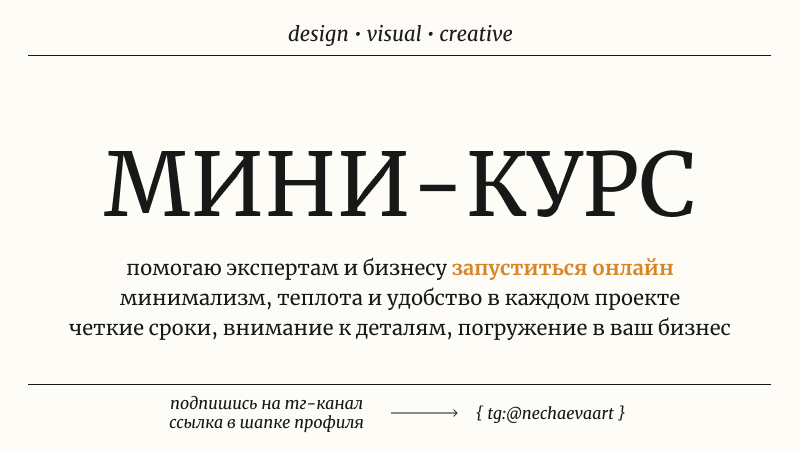
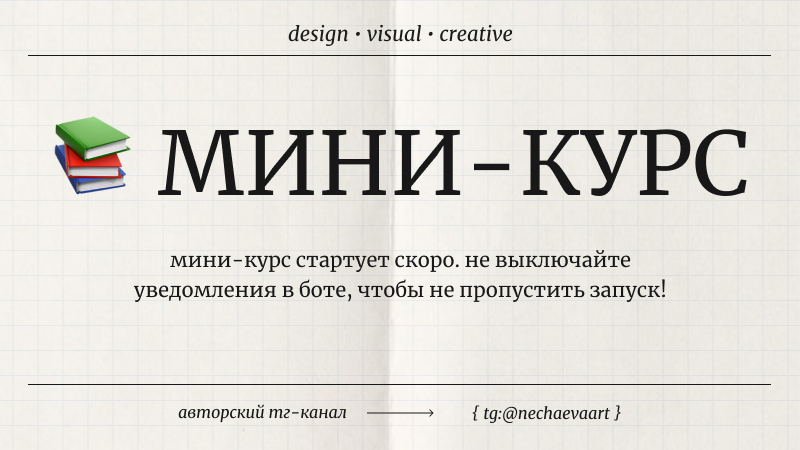
text & img edit

diff --git a/bot.py b/bot.py
@@ -51,17 +51,19 @@ GIFT_TEMPLATE = (
     "<b><u><i>Переходите по кнопке, чтобы читать гайд</i></u></b> 👇"
 )
 
-SUBSCRIBE_PROMPT = "Сначала подпишитесь на канал 👇"
-COURSE_TEXT = "⚡ Мини-курс стартует скоро. Не выключайте уведомления в боте, чтобы не пропустить запуск!"
+SUBSCRIBE_PROMPT = "Ваш гайд уже готов, чтобы получить его подпишитесь на канал @nechaevaart 👇"
+COURSE_TEXT = ("⚡ Скоро выйдет мини-курс по самостоятельной «переупаковке» бизнеса.\n\n"
+               "<b>Не выключайте уведомления в боте</b>: спама не будет, только важные напоминания о старте.\n\n"
+               "А пока <b><i><u>присоединяйтесь к моему каналу</u></i></b>, чтобы быть в курсе новостей 👇")
 
 SERVICES_HEADER = "<b>Чем могу быть полезна:</b>\n"
 SERVICES_ITEMS = [
-    "➡ Лендинги и многостраничные сайты на Tilda / Taplink",
-    "➡ Редизайн и развитие существующих сайтов",
-    "➡ Сайты-визитки для экспертов и компаниям",
-    "➡ Дизайн и верстка приглашений на любые мероприятия",
-    "➡ Инфографика и презентации для бизнеса",
-    "➡ Оформление и ведение Pinterest-профилей",
+    "— Лендинги и многостраничные сайты на Tilda / Taplink",
+    "— Редизайн и развитие существующих сайтов",
+    "— Сайты-визитки для экспертов и компаниям",
+    "— Дизайн и верстка приглашений на любые мероприятия",
+    "— Инфографика и презентации для бизнеса",
+    "— Оформление и ведение Pinterest-профилей",
 ]
 SERVICES_FOOTER = (
     "\n\n<i>Свяжитесь со мной в личных сообщениях @Polina_Alex — обсудим, как лучше представить ваш проект.</i>"
@@ -76,6 +78,14 @@ inline_main_kb = KBM(inline_keyboard=[
 
 gift_kb = KBM(inline_keyboard=[
     [KB(text="🎁 Скачать гайд", callback_data="download_guide")]
+])
+
+service_kb = KBM(inline_keyboard=[
+    [KB(text="Перейти в канал", url="https://t.me/+TcE_ofokV6RjM2Qy")]
+])
+
+course_kb = KBM(inline_keyboard=[
+    [KB(text="Перейти в канал", url="https://t.me/+TcE_ofokV6RjM2Qy")]
 ])
 
 subscribe_kb = KBM(inline_keyboard=[
@@ -163,7 +173,8 @@ async def download_guide(c: CallbackQuery):
 async def send_course(target):
     await target.answer_photo(
         photo=FSInputFile(os.path.join(IMAGE_DIR, "course.jpg")),
-        caption=COURSE_TEXT
+        caption=COURSE_TEXT,
+        reply_markup=course_kb
     )
 
 @dp.callback_query(F.data == "course")
@@ -178,7 +189,7 @@ async def cmd_course(m: Message):
     await send_course(m)
 
 # Services handlers
-async def format_services_text():
+def format_services_text():
     items = "\n".join(SERVICES_ITEMS)
     return f"{SERVICES_HEADER}\n{items}{SERVICES_FOOTER}"
 
@@ -186,7 +197,8 @@ async def send_services(target):
     text = format_services_text()
     await target.answer_photo(
         photo=FSInputFile(os.path.join(IMAGE_DIR, "services.jpg")),
-        caption=text
+        caption=text,
+        reply_markup=service_kb
     )
 
 @dp.callback_query(F.data == "services")
@@ -219,6 +231,14 @@ async def ask_announce(m: Message, state: FSMContext):
         return
     await m.answer("Пришлите одно сообщение-шаблон. /cancel — отменить.")
     await state.set_state(Announce.wait)
+
+@dp.message(F.text == "/users")
+async def cmd_users_count(m: Message):
+    if m.from_user.id not in ADMIN_IDS:
+        return
+    count = len(get_all_ids())
+    await m.answer(f"Количество {count} пользователей.")
+
 
 @dp.message(Announce.wait)
 async def do_broadcast(m: Message, state: FSMContext):
@@ -262,7 +282,7 @@ async def send_channel_message(m: Message, state: FSMContext):
     bot_user = await bot.get_me()
     bot_url = f"https://t.me/{bot_user.username}"
     kb = KBM(inline_keyboard=[
-        [KB(text="🎁 Подарок", url=bot_url)]
+        [KB(text="Перейти в бот", url=bot_url)]
     ])
     await bot.send_message(
         chat_id=CHANNEL_ID,
